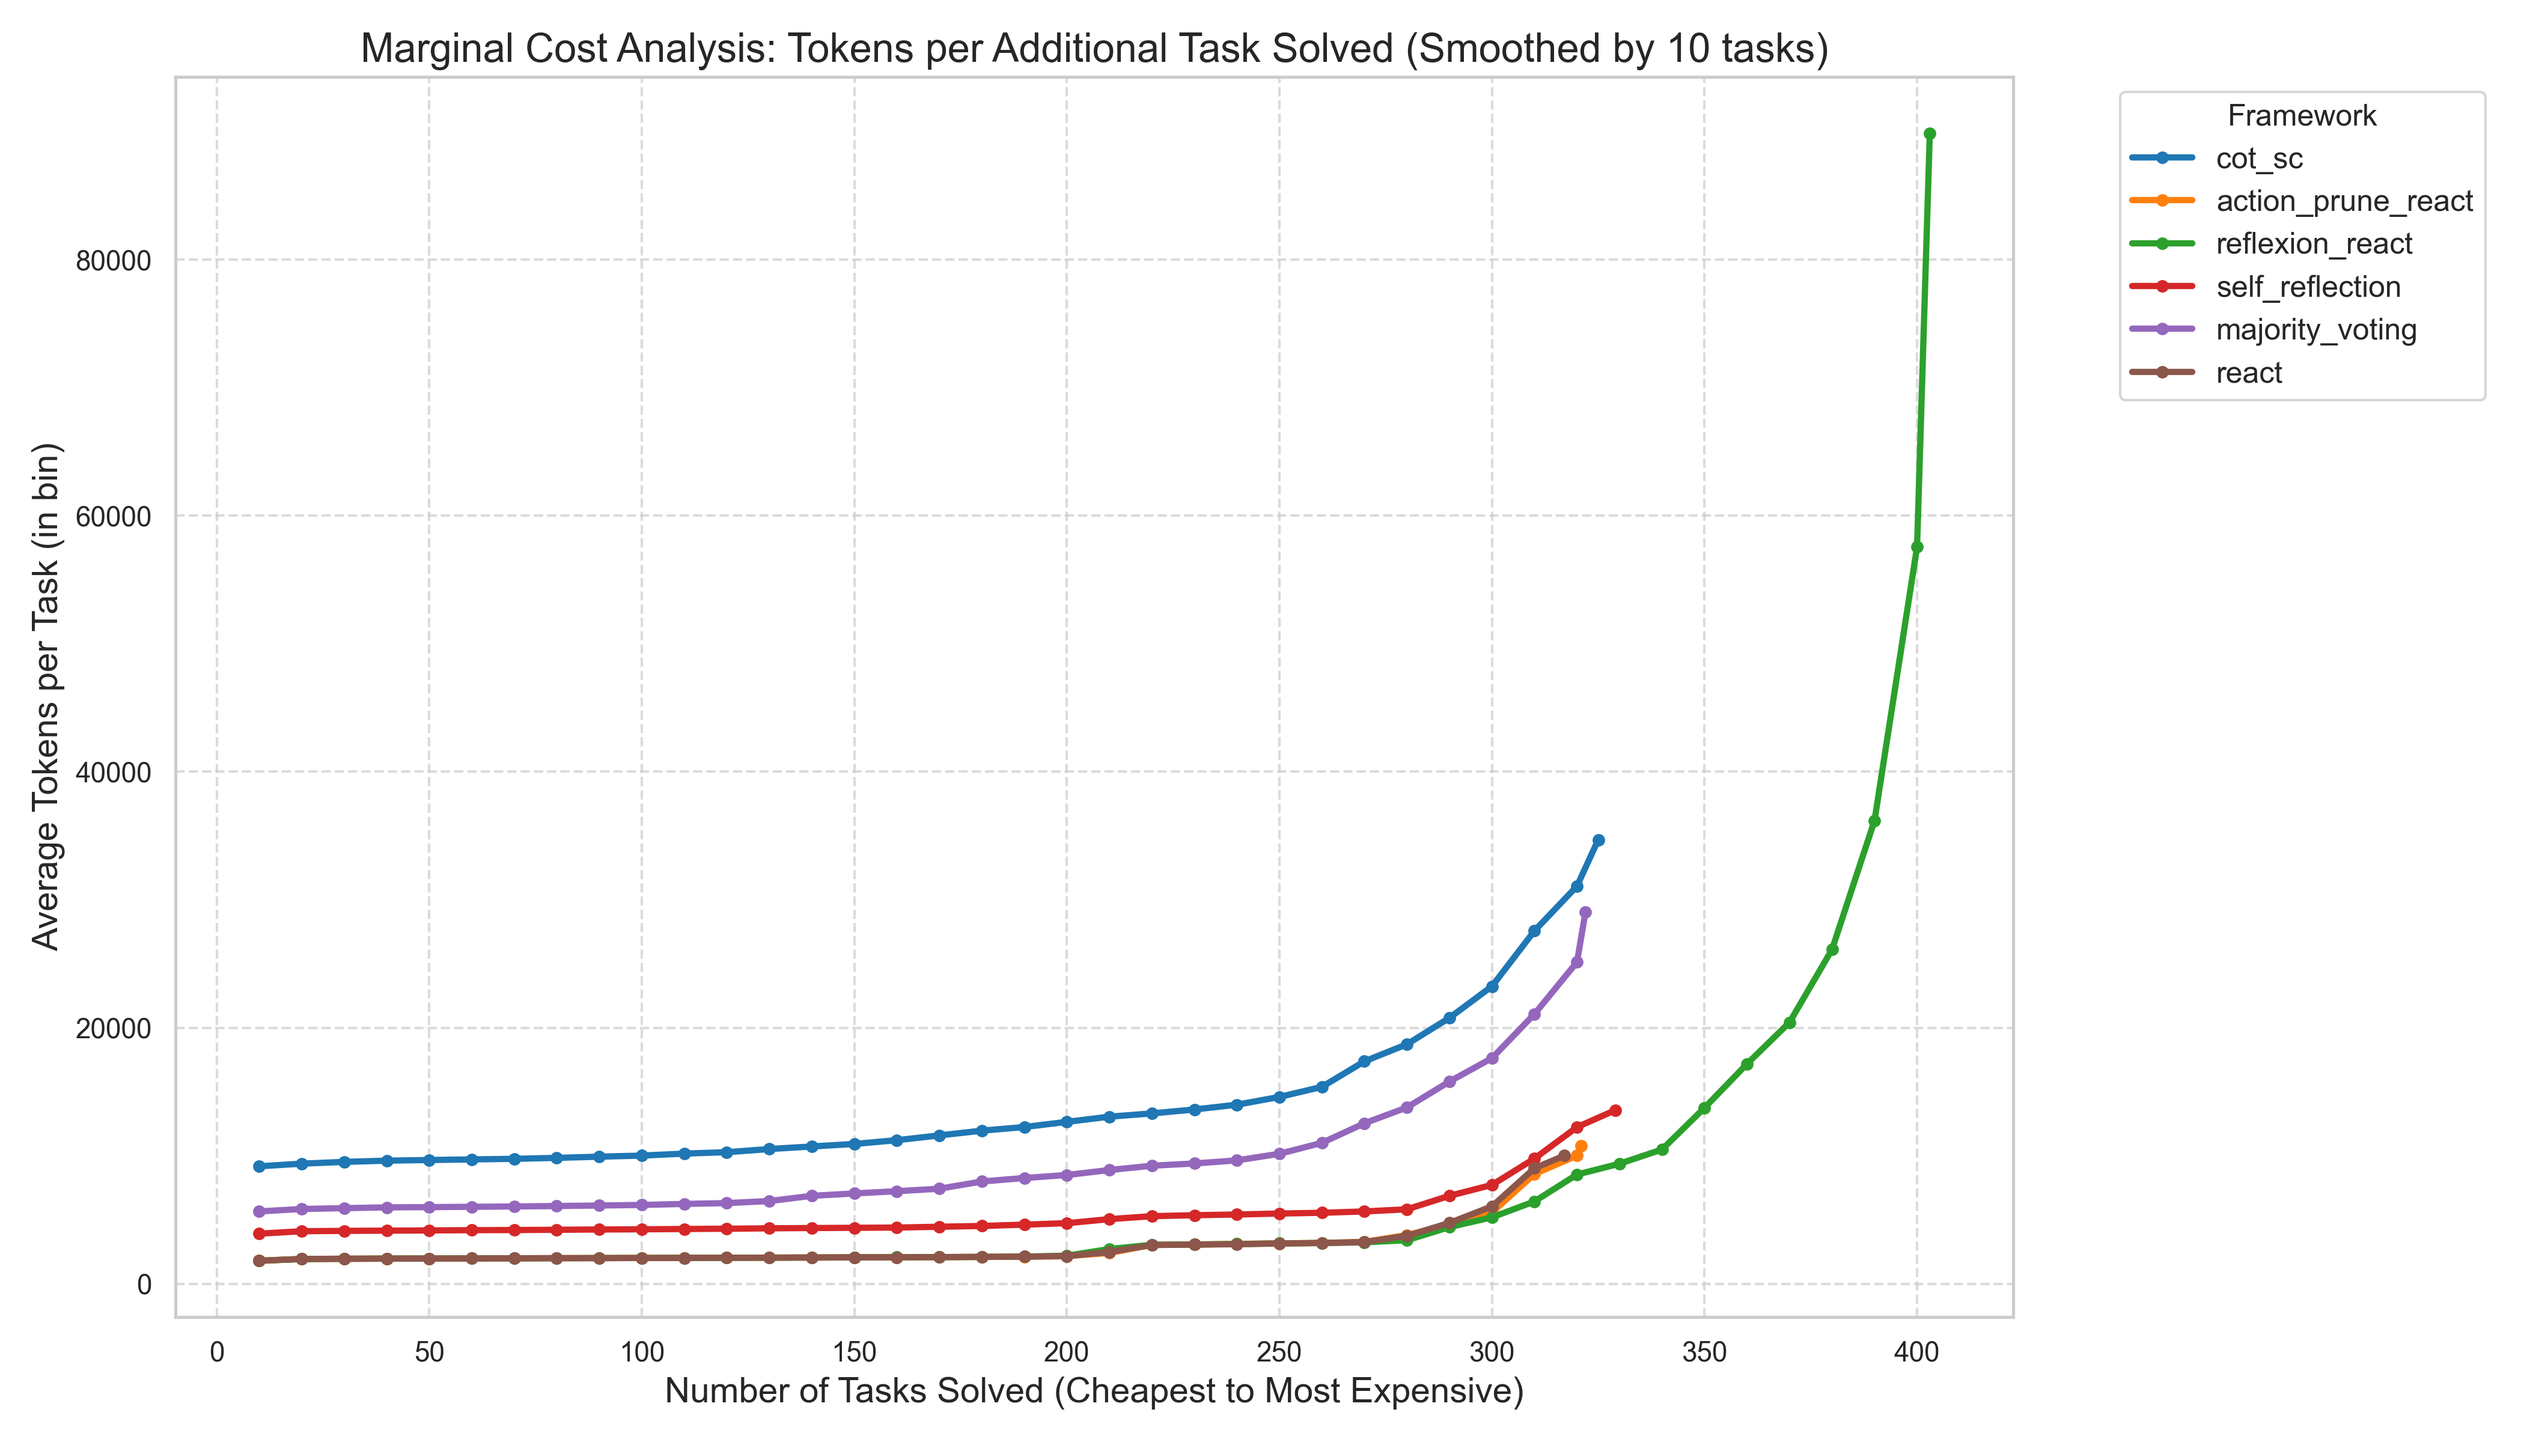
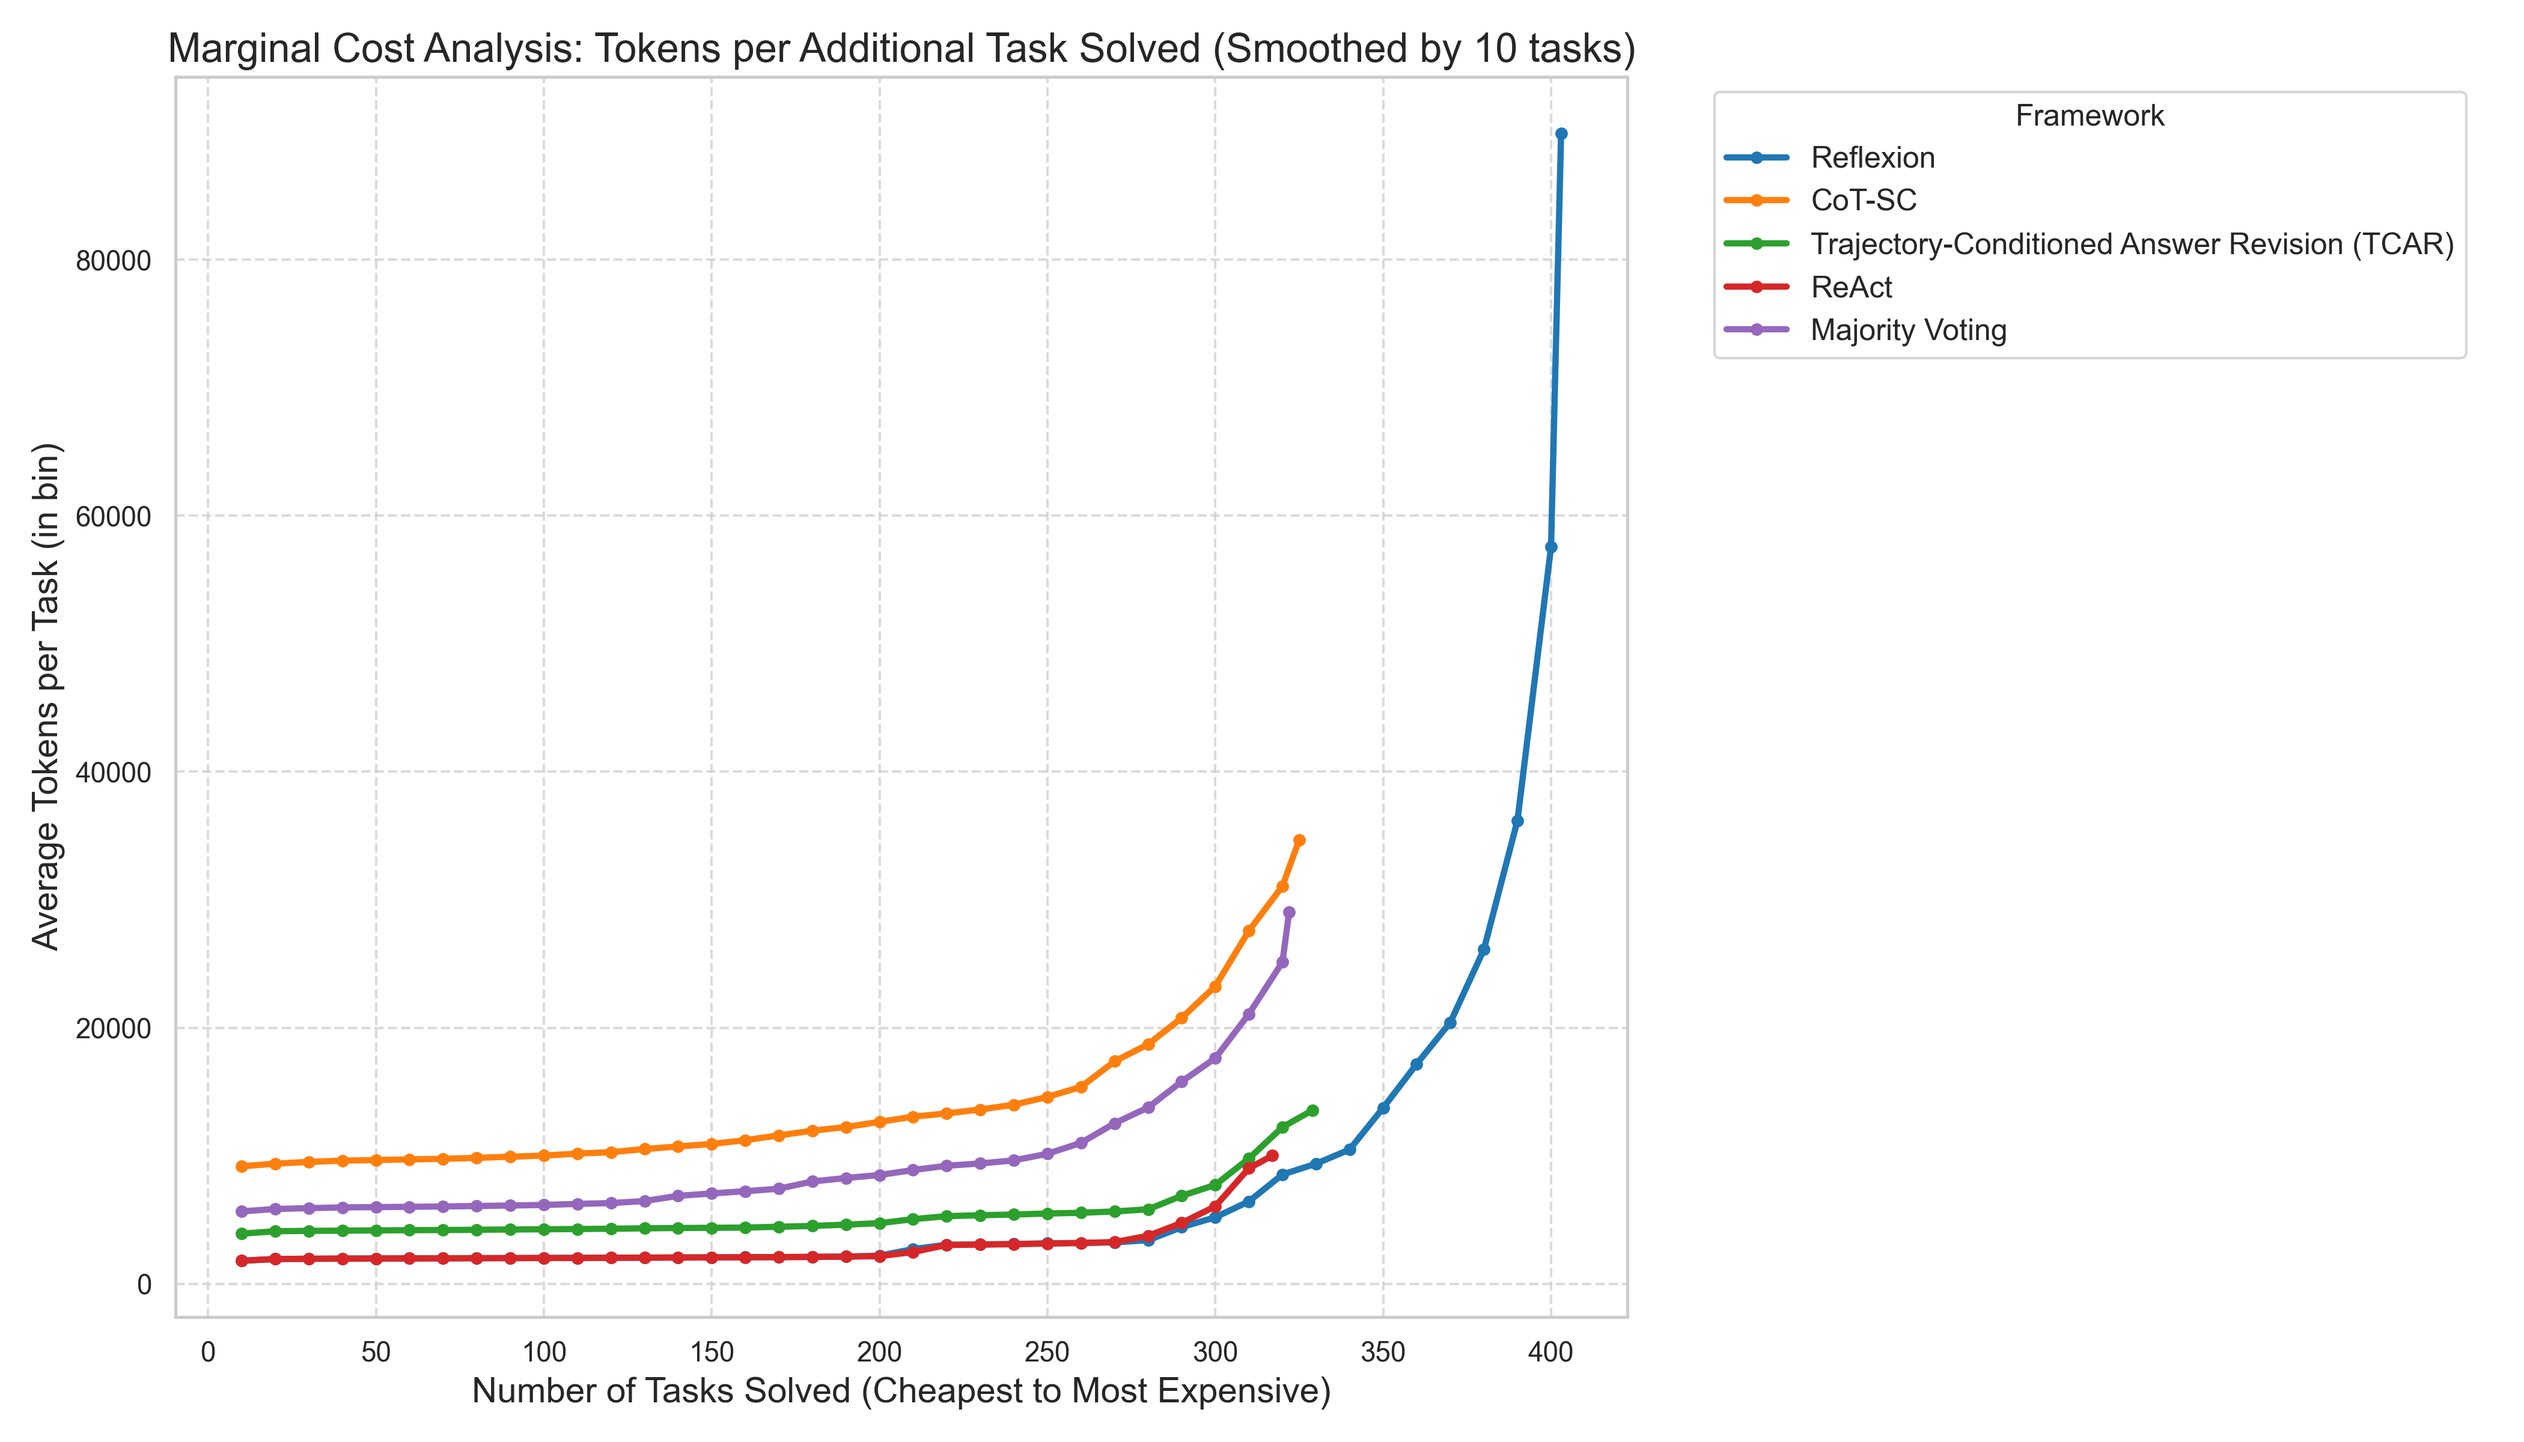
feat: Add marginal cost analysis for HotPotQA and refactor Fever chart generation to use explicit framework mapping.

diff --git a/results/hotpotqa/pareto_aggregation/generate_marginal_charts.py b/results/hotpotqa/pareto_aggregation/generate_marginal_charts.py
@@ -5,8 +5,8 @@ import numpy as np
 import os
 
 # Configuration
-INPUT_FILE = '/Users/rishisim/Documents/research/react-research/results/fever/pareto_aggregation/pareto_summary.csv'
-OUTPUT_DIR = '/Users/rishisim/Documents/research/react-research/results/fever/pareto_aggregation/fever_charts_500'
+INPUT_FILE = '/Users/rishisim/Documents/research/react-research/results/hotpotqa/pareto_aggregation/pareto_summary.csv'
+OUTPUT_DIR = '/Users/rishisim/Documents/research/react-research/results/hotpotqa/pareto_aggregation/hotpotqa_charts_500'
 TASK_BIN_SIZE = 10  # Number of tasks per bin for smoothing
 
 def setup_plotting_style():
@@ -26,13 +26,13 @@ def calculate_marginal_data(df, bin_size=TASK_BIN_SIZE):
     # Define the frameworks we want to include and their display names
     # Framework ID -> Display Name
     FRAMEWORK_MAPPING = {
-        'reflexion_react': 'Reflexion',
+        'reflexion': 'Reflexion',
         'cot_sc': 'CoT-SC',
         'Trajectory-Conditioned Answer Revision (TCAR)': 'Trajectory-Conditioned Answer Revision (TCAR)',
         'react': 'ReAct',
         'majority_voting': 'Majority Voting'
     }
-    
+
     results = {}
 
     for fw_id, fw_label in FRAMEWORK_MAPPING.items():
@@ -85,7 +85,7 @@ def plot_marginal_chart(data, output_path):
     for i, (name, stats) in enumerate(data.items()):
         ax.plot(stats['x'], stats['y'], marker='o', markersize=4, linewidth=2.5, label=name, color=colors[i])
         
-    ax.set_title(f'Marginal Cost Analysis: Tokens per Additional Task Solved (Smoothed by {TASK_BIN_SIZE} tasks)', fontsize=16)
+    ax.set_title(f'Marginal Cost Analysis (HotPotQA): Tokens per Additional Task Solved (Smoothed by {TASK_BIN_SIZE} tasks)', fontsize=16)
     ax.set_xlabel('Number of Tasks Solved (Cheapest to Most Expensive)', fontsize=14)
     ax.set_ylabel('Average Tokens per Task (in bin)', fontsize=14)
     
